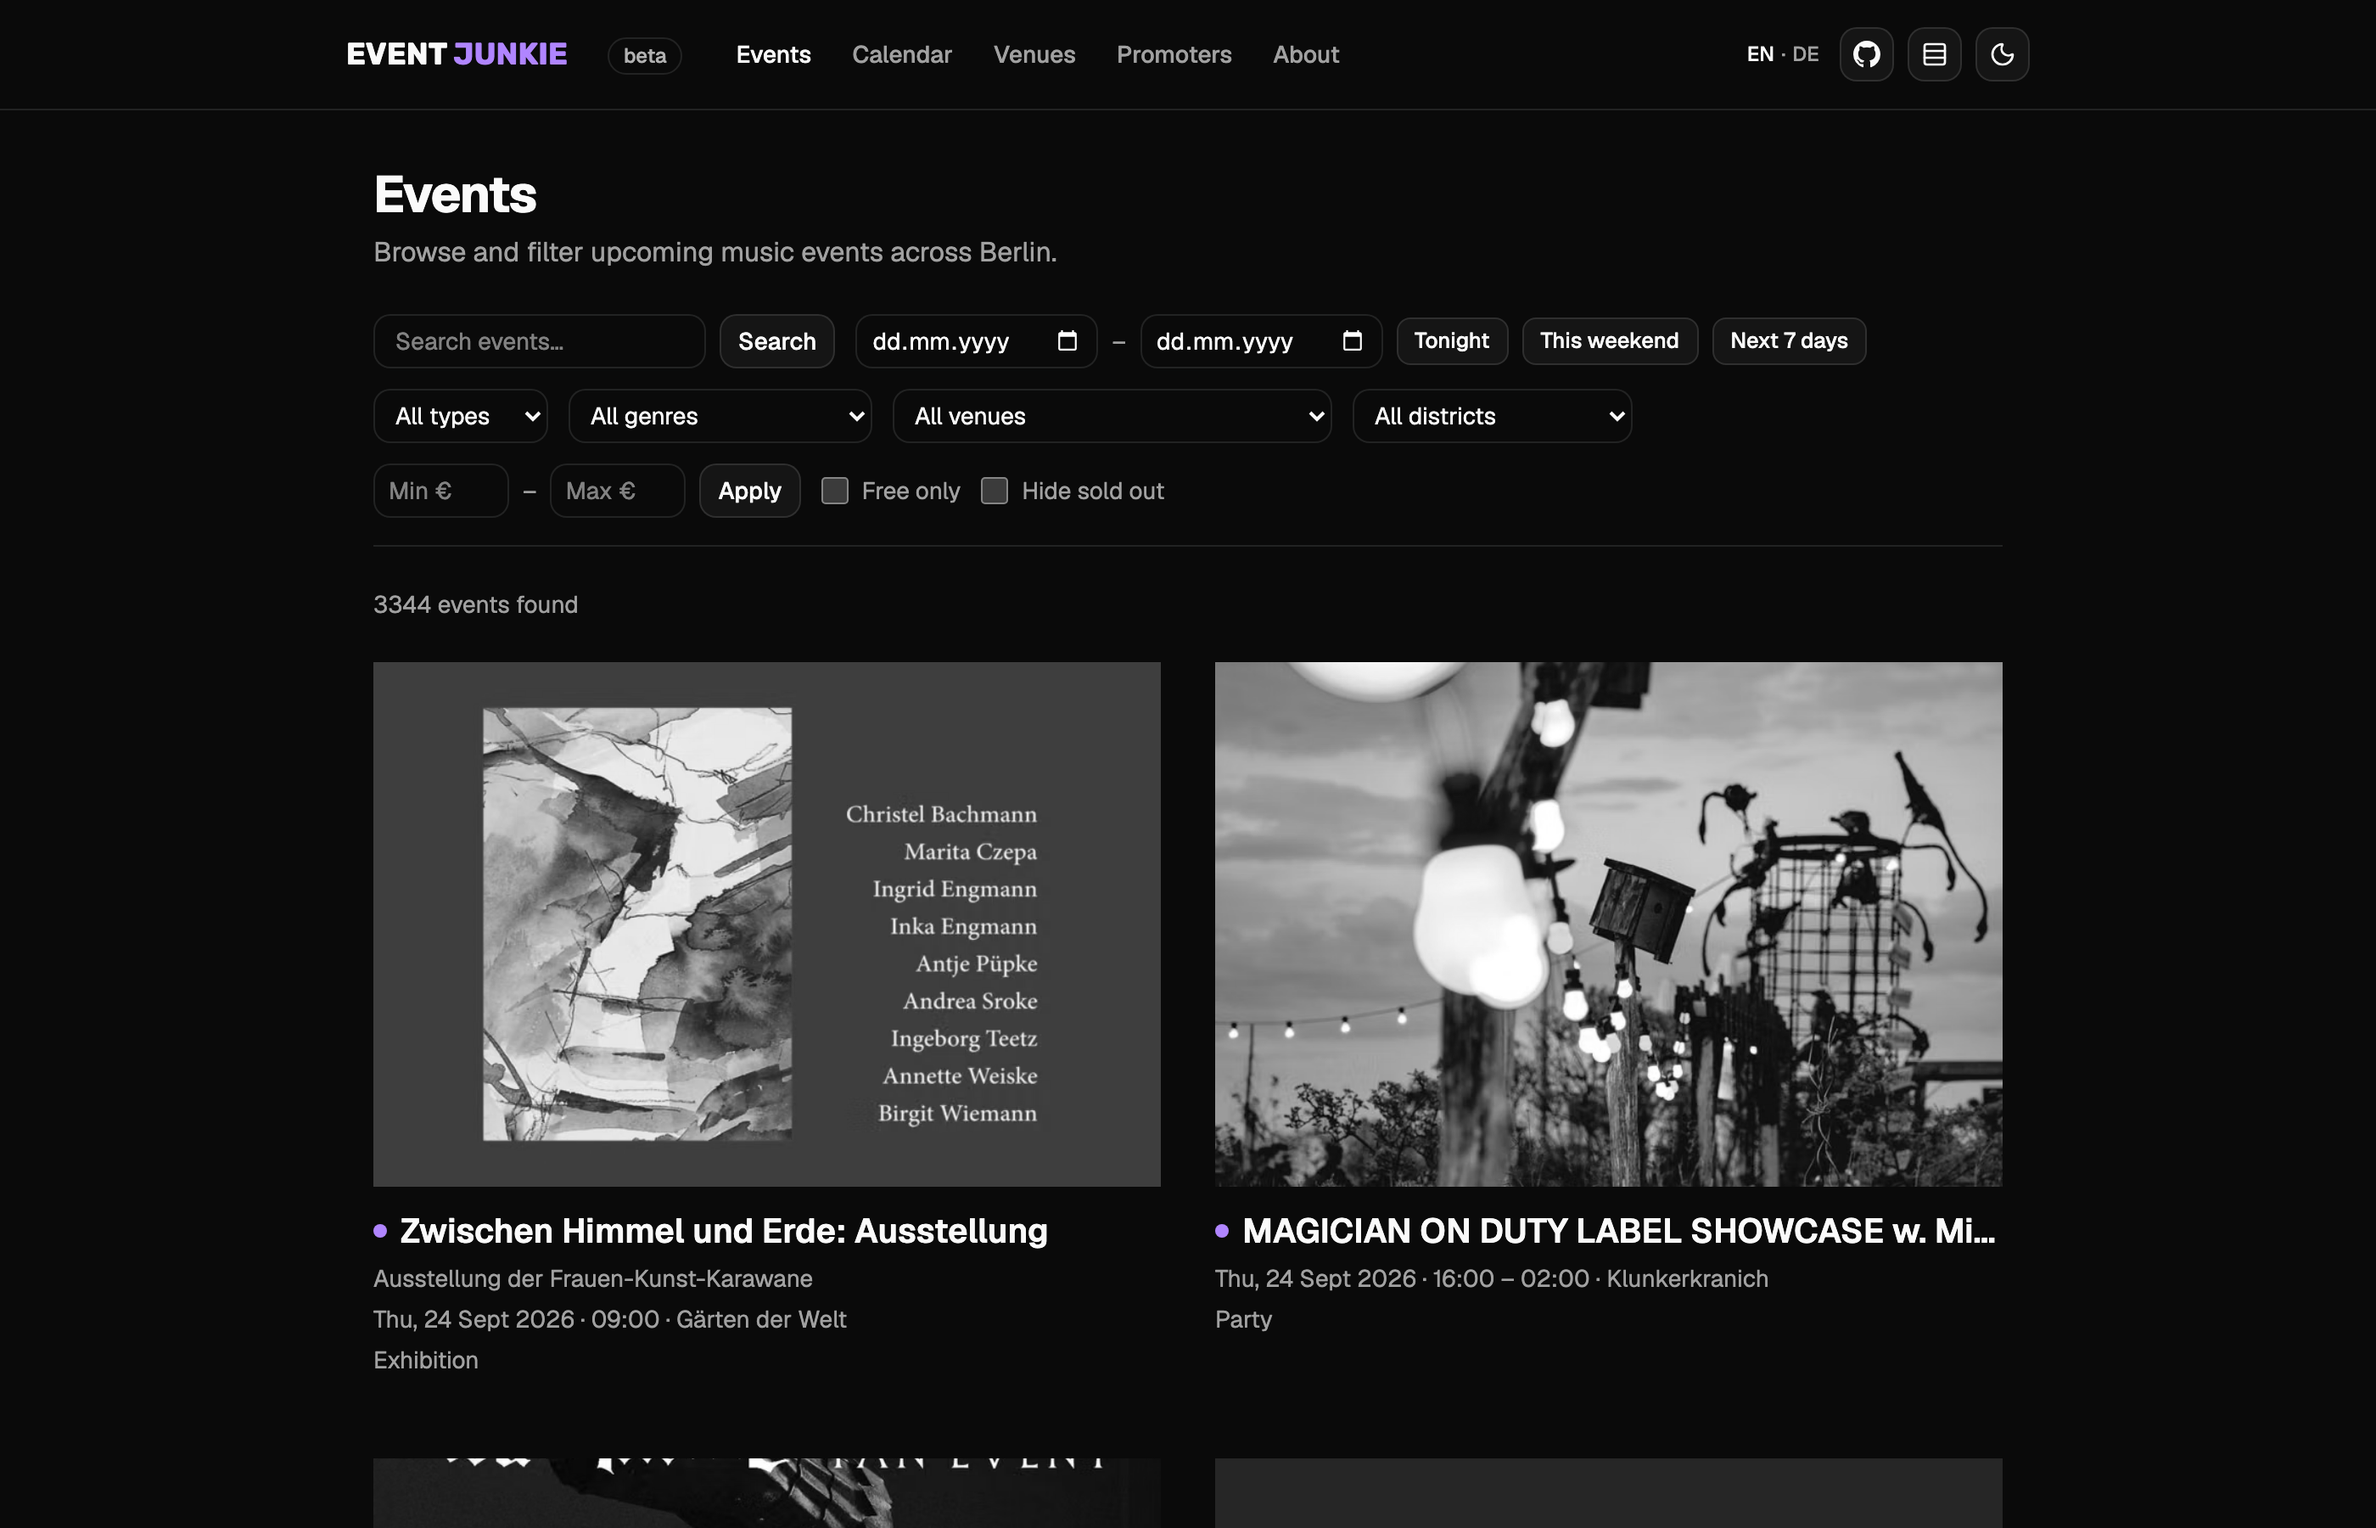
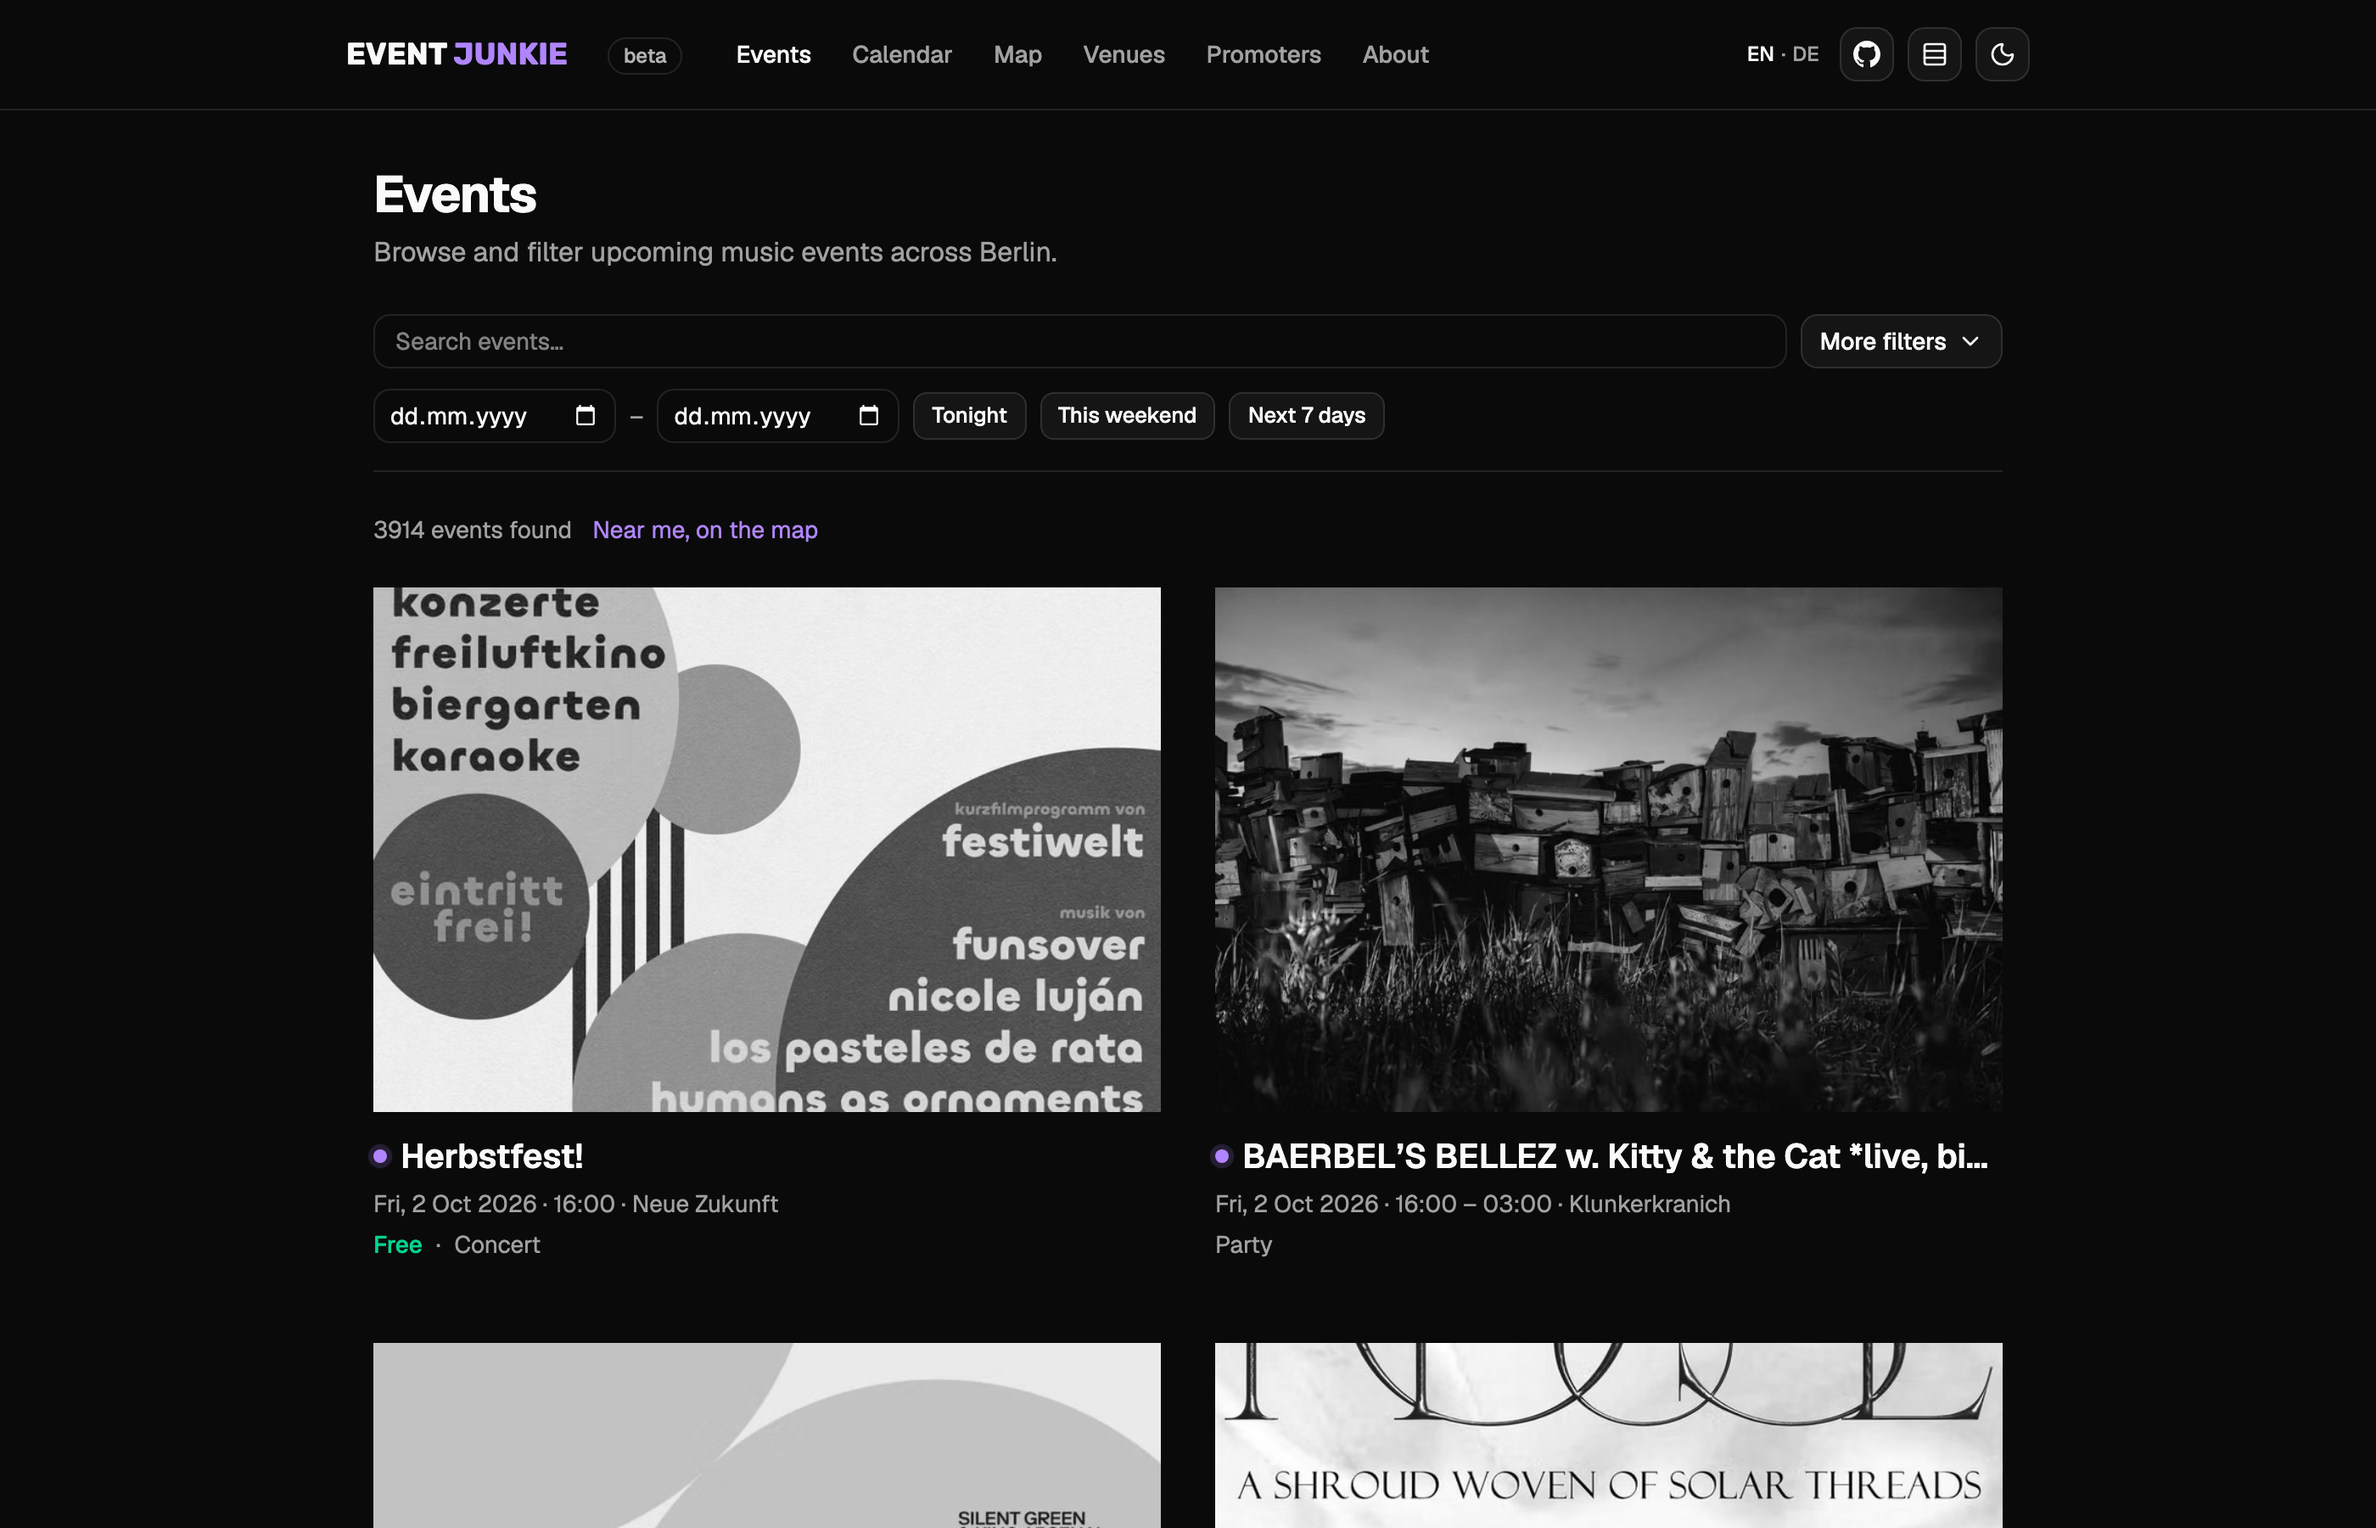
docs: retake the README screenshots from v0.35.0 and add the phone pair
The README pictures predated the type scale, the filter bar and the header
fixes. scripts/readme-screenshots.sh retook all four from production on v0.35.0:
desktop 1400x900 and phone 390x844, each dark and light, at 2x.

The README now shows the desktop and the phone shot side by side, each a
<picture> that follows the reader's GitHub theme, sized to the same height. The
screenshots table lists the two phone files, so the script dates them on the next
retake too.

Closes #2373

Claude-Session: https://claude.ai/code/session_01BqEfrxQL2PVKSKCMrzrc3g

diff --git a/docs/screenshots/README.md b/docs/screenshots/README.md
@@ -2,10 +2,12 @@
 
 Pictures of the running product, for the README and anywhere else a reader needs to see it rather than read about it.
 
-| File                                   | What it shows                                                               | Taken      |
-| -------------------------------------- | --------------------------------------------------------------------------- | ---------- |
-| [`events-dark.png`](events-dark.png)   | The events list — filter bar over the poster grid, dark theme, 1400×900 @2× | 2026-09-24 |
-| [`events-light.png`](events-light.png) | The same list in the light theme, which the toggle is the only way into     | 2026-09-24 |
+| File                                                 | What it shows                                                               | Taken      |
+| ---------------------------------------------------- | --------------------------------------------------------------------------- | ---------- |
+| [`events-dark.png`](events-dark.png)                 | The events list — filter bar over the poster grid, dark theme, 1400×900 @2× | 2026-10-02 |
+| [`events-light.png`](events-light.png)               | The same list in the light theme, which the toggle is the only way into     | 2026-10-02 |
+| [`events-mobile-dark.png`](events-mobile-dark.png)   | The same list on a phone, dark theme, 390×844 @2×                           | 2026-10-02 |
+| [`events-mobile-light.png`](events-mobile-light.png) | The phone list in the light theme                                           | 2026-10-02 |
 
 **The date is the point of the table.** Nothing here can go stale loudly. A screenshot of last year's UI renders
 exactly as well as one of today's. The date next to it is the only signal a reader gets. Update the date when you

diff --git a/README.md b/README.md
@@ -24,12 +24,16 @@ One filterable feed of what is on across Berlin's venues, collected automaticall
 <p align="center">
   <picture>
     <source media="(prefers-color-scheme: light)" srcset="./docs/screenshots/events-light.png" />
-    <img alt="The events list: a filter bar over a grid of Berlin events, each with its poster, venue, time and genre tags" src="./docs/screenshots/events-dark.png" width="900" />
+    <img alt="The events list on a desktop: a filter bar over a grid of Berlin events, each with its poster, venue, time and genre tags" src="./docs/screenshots/events-dark.png" width="700" />
+  </picture>
+  <picture>
+    <source media="(prefers-color-scheme: light)" srcset="./docs/screenshots/events-mobile-light.png" />
+    <img alt="The same events list on a phone: search and dates on top, one event per row" src="./docs/screenshots/events-mobile-dark.png" width="208" />
   </picture>
 </p>
 
 <p align="center">
-  <sub>The events list, in your GitHub theme — real data, scraped from the venues' own sites. September 2026; see <a href="./docs/screenshots/">docs/screenshots</a>.</sub>
+  <sub>The events list on a desktop and on a phone, in your GitHub theme — real data, scraped from the venues' own sites. October 2026; see <a href="./docs/screenshots/">docs/screenshots</a>.</sub>
 </p>
 
 ## Contents
